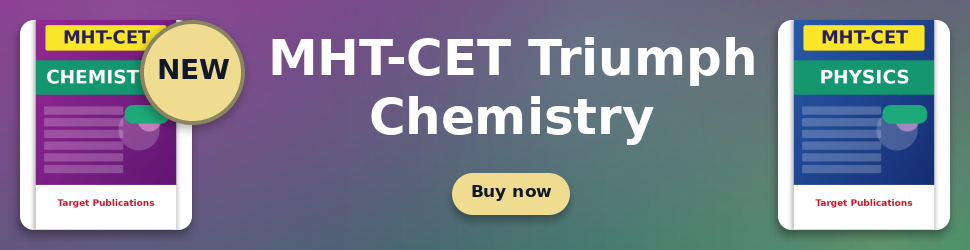
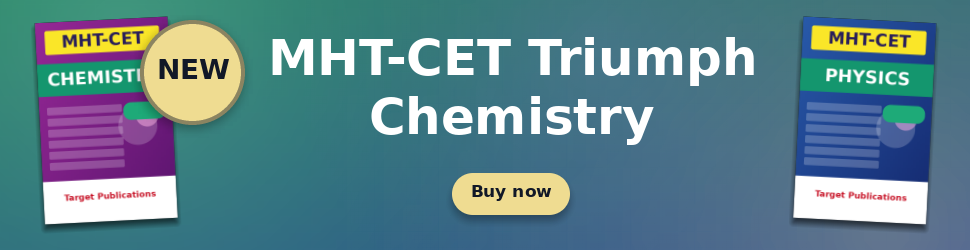
feat: cover-derived backgrounds and free-standing books in strips
- Theme::fromImages(): colours from front + back cover, front decides the brand hue;
  secondary colour only from a neighbouring hue (no purple->green gradients)
- New backgrounds: lines, bokeh, hex (deterministic, drawn from the theme)
- Showcase layout: packshots are cut out and stand on the background instead of white cards
- "Title | tagline" headlines split into headline + subheadline
- Tests, README and sample renders updated

diff --git a/src/Ads/Backgrounds.php b/src/Ads/Backgrounds.php
@@ -11,7 +11,8 @@ use Packitifotech\Laragdads\Services\Image\ImageService;
 /**
  * Background painters. A painter is `fn (Canvas $canvas, AdSpec $spec, Theme $theme): void`.
  *
- * Built-in modern styles: auto, mesh, gradient, solid, blur.
+ * Built-in modern styles, all coloured from the cover/brand: auto (mesh), mesh, lines, bokeh, hex, gradient,
+ * solid, blur.
  * Legacy styles (wave1, wave, abstract, stripes, radial, spotlight, burst, marketing, medical,
  * mobile-dots, mobile-card, mobile-diagonal, mobile-flat) are the original ImageService painters.
  * Add your own with Backgrounds::register().
@@ -36,6 +37,9 @@ final class Backgrounds
 
         match ($style) {
             'auto', 'mesh' => self::mesh($canvas, $theme),
+            'lines' => self::lines($canvas, $theme),
+            'bokeh' => self::bokeh($canvas, $theme),
+            'hex' => self::hex($canvas, $theme),
             'gradient' => $canvas->gradient($theme->backgroundFrom, $theme->backgroundTo, 'diagonal'),
             'solid' => $canvas->rect(0, 0, $canvas->width(), $canvas->height(), $theme->backgroundFrom),
             'blur' => self::blur($canvas, $spec, $theme),
@@ -47,7 +51,7 @@ final class Backgrounds
     public static function names(): array
     {
         return array_values(array_unique(array_merge(
-            ['auto', 'mesh', 'gradient', 'solid', 'blur'],
+            ['auto', 'mesh', 'lines', 'bokeh', 'hex', 'gradient', 'solid', 'blur'],
             array_keys(self::legacyMap()),
             array_keys(self::$custom)
         )));
@@ -64,6 +68,88 @@ final class Backgrounds
         $canvas->glow((int) ($w * 0.12), (int) ($h * 0.1), (int) ($long * 0.55), Color::lighten($theme->primary, 0.25), 0.55);
         $canvas->glow((int) ($w * 0.92), (int) ($h * 0.95), (int) ($long * 0.6), $theme->accent, 0.28);
         $canvas->glow((int) ($w * 0.62), (int) ($h * 0.2), (int) ($long * 0.35), Color::lighten($theme->secondary, 0.3), 0.3);
+    }
+
+    /** Long, thin crossing lines in a lighter tone of the brand colour (the classic "ad strip" look). */
+    private static function lines(Canvas $canvas, Theme $theme): void
+    {
+        self::mesh($canvas, $theme);
+        $w = $canvas->width();
+        $h = $canvas->height();
+        $rand = self::rng($w * 31 + $h);
+        $tint = Color::lighten($theme->primary, 0.55);
+        $gold = Color::mix($theme->accent, $tint, 0.4);
+
+        $canvas->decor(function ($layer, int $k) use ($w, $h, $rand, $tint, $gold, $canvas) {
+            imagesetthickness($layer, max(1, $k));
+            $count = 9 + (int) round(max($w, $h) / 160);
+            for ($i = 0; $i < $count; $i++) {
+                $x1 = (int) (($rand() * 1.4 - 0.2) * $w * $k);
+                $y1 = (int) (($rand() * 1.4 - 0.2) * $h * $k);
+                $angle = ($rand() * 0.9 + 0.05) * M_PI * ($rand() > 0.5 ? 1 : -1);
+                $len = (0.35 + $rand() * 0.8) * max($w, $h) * $k;
+                $color = $canvas->colorOn($layer, $i % 3 === 0 ? $gold : $tint, 0.24 + $rand() * 0.22);
+                imageline($layer, $x1, $y1, (int) ($x1 + cos($angle) * $len), (int) ($y1 + sin($angle) * $len), $color);
+            }
+        });
+    }
+
+    /** Out-of-focus light discs. */
+    private static function bokeh(Canvas $canvas, Theme $theme): void
+    {
+        self::mesh($canvas, $theme);
+        $w = $canvas->width();
+        $h = $canvas->height();
+        $rand = self::rng($w * 17 + $h);
+        $palette = [Color::lighten($theme->primary, 0.5), $theme->accent, Color::lighten($theme->secondary, 0.45), [255, 255, 255]];
+
+        $count = 12 + (int) round(max($w, $h) / 120);
+        for ($i = 0; $i < $count; $i++) {
+            $d = (int) round((0.04 + $rand() * 0.16) * max($w, $h));
+            $canvas->circle((int) ($rand() * $w), (int) ($rand() * $h), max(8, $d), $palette[$i % 4], 0.07 + $rand() * 0.14);
+        }
+    }
+
+    /** Hexagon grid: a clean "science / tech" texture. */
+    private static function hex(Canvas $canvas, Theme $theme): void
+    {
+        self::mesh($canvas, $theme);
+        $w = $canvas->width();
+        $h = $canvas->height();
+        $tint = Color::lighten($theme->primary, 0.6);
+        $r = max(18, (int) round(max($w, $h) / 16));
+
+        $canvas->decor(function ($layer, int $k) use ($w, $h, $r, $tint, $canvas) {
+            imagesetthickness($layer, max(1, $k));
+            $color = $canvas->colorOn($layer, $tint, 0.14);
+            $dx = $r * sqrt(3);
+            $dy = $r * 1.5;
+            for ($row = -1; $row * $dy < $h + $r; $row++) {
+                for ($col = -1; $col * $dx < $w + $dx; $col++) {
+                    $cx = ($col + ($row % 2 ? 0.5 : 0)) * $dx;
+                    $cy = $row * $dy;
+                    $pts = [];
+                    for ($v = 0; $v < 6; $v++) {
+                        $a = M_PI / 6 + $v * M_PI / 3;
+                        $pts[] = (int) (($cx + $r * cos($a)) * $k);
+                        $pts[] = (int) (($cy + $r * sin($a)) * $k);
+                    }
+                    imagepolygon($layer, $pts, $color);
+                }
+            }
+        });
+    }
+
+    /** Deterministic 0..1 generator: the same size always gives the same pattern. */
+    private static function rng(int $seed): \Closure
+    {
+        $state = $seed % 2147483647 ?: 1;
+
+        return function () use (&$state): float {
+            $state = ($state * 48271) % 2147483647;
+
+            return $state / 2147483647;
+        };
     }
 
     /** The first image, blown up, blurred and dimmed. */

diff --git a/src/Ads/Theme.php b/src/Ads/Theme.php
@@ -35,10 +35,26 @@ final class Theme
     /** Pick colours from the dominant, most colourful tones of an image. */
     public static function fromImage(string|GdImage $image): self
     {
-        try {
-            $palette = ColorThief::getPalette($image, 6, 10) ?: [];
-        } catch (\Throwable) {
-            $palette = [];
+        return self::fromImages([$image]);
+    }
+
+    /**
+     * Pick colours from several images (e.g. front and back cover). Earlier images weigh more, so the
+     * front cover decides the brand colour and the back cover only fills in supporting tones.
+     *
+     * @param array<string|GdImage> $images
+     */
+    public static function fromImages(array $images): self
+    {
+        $palette = [];
+        foreach (array_values($images) as $n => $image) {
+            try {
+                $colors = ColorThief::getPalette($image, 6, 10) ?: [];
+            } catch (\Throwable) {
+                $colors = [];
+            }
+            // Later images contribute fewer colours, appended after the earlier (more important) ones.
+            array_push($palette, ...array_slice($colors, 0, max(2, 6 - 2 * $n)));
         }
 
         if ($palette === []) {
@@ -76,7 +92,8 @@ final class Theme
         $secondary = null;
         $accent = null;
         foreach (array_slice($palette, 1) as $c) {
-            if ($secondary === null && $score($c) > 0.12 && Color::hueDistance($primary, $c) >= 25) {
+            // A neighbouring hue gives a calm gradient; a far-away one (purple -> green) looks garish.
+            if ($secondary === null && $score($c) > 0.12 && Color::hueDistance($primary, $c) >= 20 && Color::hueDistance($primary, $c) <= 70) {
                 $secondary = $c;
             } elseif ($accent === null && Color::saturation($c) >= 0.5 && Color::hueDistance($primary, $c) >= 70) {
                 $accent = $c;

diff --git a/tests/AdBuilderTest.php b/tests/AdBuilderTest.php
@@ -241,4 +241,36 @@ final class AdBuilderTest extends TestCase
             $this->assertSame(400, imagesx($img), $style);
         }
     }
+
+    public function test_pattern_backgrounds_render_and_differ_from_plain_mesh(): void
+    {
+        $book = $this->packshot();
+        $render = fn (string $bg) => AdBuilder::make()->size(AdSize::STRIP)->images($book, $book)->background($bg)->headline('Hi')->toPng();
+
+        $mesh = $render('mesh');
+        foreach (['lines', 'bokeh', 'hex'] as $style) {
+            $this->assertSame(1200, imagesx($this->decode($render($style))), $style);
+            $this->assertNotSame($mesh, $render($style), $style);
+        }
+        $this->assertSame($render('lines'), $render('lines'), 'patterns are deterministic');
+    }
+
+    public function test_title_with_pipe_is_split_into_headline_and_subheadline(): void
+    {
+        $split = AdBuilder::make()->size(AdSize::STRIP)->headline('Maths Vol 2 | As per latest NTA syllabus')->toPng();
+        $explicit = AdBuilder::make()->size(AdSize::STRIP)->headline('Maths Vol 2')->subheadline('As per latest NTA syllabus')->toPng();
+
+        $this->assertSame($explicit, $split);
+    }
+
+    public function test_theme_from_front_and_back_cover_follows_the_front_cover(): void
+    {
+        $front = $this->packshot('front.png');
+        $c = Canvas::create(200, 280, [255, 255, 255]);
+        $c->rect(20, 16, 160, 240, [20, 150, 110]);
+        imagepng($c->image(), $this->dir . '/back.png');
+
+        $theme = Theme::fromImages([$front, $this->dir . '/back.png']);
+        $this->assertLessThan(40, Color::hueDistance($theme->primary, [140, 30, 150]));
+    }
 }

diff --git a/src/Ads/AdBuilder.php b/src/Ads/AdBuilder.php
@@ -219,6 +219,7 @@ final class AdBuilder
             throw new InvalidArgumentException('An ad needs at least a headline or an image.');
         }
 
+        $spec = $this->splitTitle(clone $spec);
         $theme = $spec->theme ?? $this->resolveTheme();
         $heading = new Typography($spec->fontPath);
         $body = $spec->bodyFontPath ? new Typography($spec->bodyFontPath) : $heading;
@@ -320,9 +321,25 @@ final class AdBuilder
 
     private function resolveTheme(): Theme
     {
-        $source = $this->spec->themeSource ?? ($this->spec->images[0] ?? ($this->spec->logo ?? null));
+        if ($this->spec->themeSource !== null) {
+            return Theme::fromImage($this->spec->themeSource);
+        }
+        $sources = array_slice($this->spec->images, 0, 2) ?: array_filter([$this->spec->logo]);
 
-        return $source !== null ? Theme::fromImage($source) : Theme::fromColors(Theme::FALLBACK);
+        return $sources !== [] ? Theme::fromImages($sources) : Theme::fromColors(Theme::FALLBACK);
+    }
+
+    /** "Book title | tagline" in one string becomes headline + subheadline when no subheadline is set. */
+    private function splitTitle(AdSpec $spec): AdSpec
+    {
+        if ($spec->subheadline === null && $spec->headline !== null && str_contains($spec->headline, '|')) {
+            [$head, $sub] = array_map('trim', explode('|', $spec->headline, 2));
+            if ($head !== '' && $sub !== '') {
+                [$spec->headline, $spec->subheadline] = [$head, $sub];
+            }
+        }
+
+        return $spec;
     }
 
     private function specWithTheme(Theme $theme): AdSpec

diff --git a/src/Ads/Layouts/ShowcaseLayout.php b/src/Ads/Layouts/ShowcaseLayout.php
@@ -26,10 +26,10 @@ final class ShowcaseLayout extends AbstractLayout
         $right = $spec->images[1] ?? null;
 
         if ($left !== null) {
-            $this->card($canvas, $spec, $left, $m, $m, $cardW, $cardH, $radius);
+            $this->flank($canvas, $spec, $left, $m, $m, $cardW, $cardH, $radius, 3.0);
         }
         if ($right !== null) {
-            $this->card($canvas, $spec, $right, $w - $m - $cardW, $m, $cardW, $cardH, $radius);
+            $this->flank($canvas, $spec, $right, $w - $m - $cardW, $m, $cardW, $cardH, $radius, -3.0);
         }
 
         $x0 = $left !== null ? $m * 2 + $cardW : $m * 2;
@@ -72,5 +72,19 @@ final class ShowcaseLayout extends AbstractLayout
         if ($badgeD && $left !== null) {
             $this->badge($canvas, $spec, $theme, $headingFont, $m + $cardW, $m + intdiv($badgeD, 2), $badgeD);
         }
+    }
+
+    /** Packshots (books, boxes) stand on the background with their white backdrop removed; photos get a card. */
+    private function flank(Canvas $canvas, AdSpec $spec, mixed $image, int $x, int $y, int $w, int $h, int $radius, float $tilt): void
+    {
+        $wantsCutout = $spec->cutout ?? $this->isPackshot($image);
+        if (!$wantsCutout) {
+            $this->card($canvas, $spec, $image, $x, $y, $w, $h, $radius);
+
+            return;
+        }
+
+        $angle = $h >= 110 ? $tilt : 0.0;
+        $canvas->sprite($this->prepare($image, $spec), $x + intdiv($w, 2), $y + intdiv($h, 2), $w, $h, $angle);
     }
 }

diff --git a/src/Ads/Layouts/BooksLayout.php b/src/Ads/Layouts/BooksLayout.php
@@ -2,11 +2,8 @@
 
 namespace Packitifotech\Laragdads\Ads\Layouts;
 
-use GdImage;
 use Packitifotech\Laragdads\Ads\AdSpec;
 use Packitifotech\Laragdads\Ads\Support\Canvas;
-use Packitifotech\Laragdads\Ads\Support\Cutout;
-use Packitifotech\Laragdads\Ads\Support\ImageLoader;
 use Packitifotech\Laragdads\Ads\Support\Typography;
 use Packitifotech\Laragdads\Ads\Theme;
 
@@ -86,14 +83,5 @@ final class BooksLayout extends AbstractLayout
         $boxH = (int) round($h * 0.88);
         $canvas->sprite($back, $x + (int) round($w * 0.34), $cy - (int) round($h * 0.03), $boxW, $boxH, 5);
         $canvas->sprite($front, $x + (int) round($w * 0.64), $cy + (int) round($h * 0.03), $boxW, (int) round($h * 0.94), -3);
-    }
-
-    /** Strip the white packshot background (unless disabled or the image already has transparency). */
-    private function prepare(GdImage|string $image, AdSpec $spec): GdImage
-    {
-        $img = ImageLoader::load($image);
-        $wanted = $spec->cutout ?? Cutout::hasLightBackground($img);
-
-        return $wanted ? Cutout::apply($img) : $img;
     }
 }

diff --git a/src/Ads/Support/Canvas.php b/src/Ads/Support/Canvas.php
@@ -191,6 +191,32 @@ final class Canvas
         return $this;
     }
 
+    /**
+     * Draw anti-aliased decoration: $draw receives a transparent layer at $scale times the canvas size
+     * (so 1px strokes stay smooth after downsampling) and the scale factor.
+     *
+     * @param callable(GdImage, int): void $draw
+     */
+    public function decor(callable $draw, int $scale = 2): self
+    {
+        $w = $this->width();
+        $h = $this->height();
+        $big = $this->layer($w * $scale, $h * $scale);
+        $draw($big, $scale);
+
+        $small = $this->layer($w, $h);
+        imagealphablending($small, false);
+        imagecopyresampled($small, $big, 0, 0, 0, 0, $w, $h, $w * $scale, $h * $scale);
+        $this->compose($small, 0, 0);
+
+        return $this;
+    }
+
+    public function colorOn(GdImage $layer, array $color, float $opacity): int
+    {
+        return $this->alloc($layer, $color, $opacity);
+    }
+
     // ---------------------------------------------------------------- images
 
     /**

diff --git a/src/Ads/Layouts/AbstractLayout.php b/src/Ads/Layouts/AbstractLayout.php
@@ -2,6 +2,7 @@
 
 namespace Packitifotech\Laragdads\Ads\Layouts;
 
+use GdImage;
 use Packitifotech\Laragdads\Ads\AdSpec;
 use Packitifotech\Laragdads\Ads\Support\Canvas;
 use Packitifotech\Laragdads\Ads\Support\Color;
@@ -217,6 +218,15 @@ abstract class AbstractLayout implements Layout
             $canvas->rect($x - $pad, $y - $pad, $w + 2 * $pad, $h + 2 * $pad, [255, 255, 255], 0.92, (int) round(($h + 2 * $pad) * 0.3));
         }
         $canvas->picture($spec->logo, $x, $y, $w, $h, 'contain');
+    }
+
+    /** Strip the white packshot background (unless disabled or the image already has transparency). */
+    protected function prepare(GdImage|string $image, AdSpec $spec): GdImage
+    {
+        $img = ImageLoader::load($image);
+        $wanted = $spec->cutout ?? Cutout::hasLightBackground($img);
+
+        return $wanted ? Cutout::apply($img) : $img;
     }
 
     /** A studio shot on a flat white background reads best on a white card. */

diff --git a/examples/generate.php b/examples/generate.php
@@ -73,6 +73,8 @@ $ad = fn () => AdBuilder::make()
 $jobs = [
     'landscape-front' => $ad()->size(AdSize::LANDSCAPE),
     'landscape-front-back' => $ad()->size(AdSize::LANDSCAPE)->images("$out/assets/chemistry.png", "$out/assets/back.png"),
+    'strip-lines' => AdBuilder::make()->font($font)->size(AdSize::STRIP)->images("$out/assets/chemistry.png", "$out/assets/back.png")->background('lines')
+        ->headline('JEE Main Mathematics Absolute Vol 2 Notes with MCQs | As per latest syllabus issued by NTA'),
     'landscape-right' => $ad()->size(AdSize::LANDSCAPE)->imageSide('right')->images("$out/assets/physics.png", "$out/assets/chemistry.png"),
     'square' => $ad()->size(AdSize::SQUARE)->images("$out/assets/chemistry.png", "$out/assets/back.png"),
     'story' => $ad()->size(AdSize::STORY)->images("$out/assets/chemistry.png", "$out/assets/back.png"),

diff --git a/README.md b/README.md
@@ -10,6 +10,7 @@ with a packshot. Pick a size, give it images and copy, get a ready-to-publish PN
 
 ![billboard](docs/examples/billboard.png)
 ![leaderboard](docs/examples/leaderboard.png)
+![strip](docs/examples/strip-lines.png)
 
 The images above come from `php examples/generate.php`.
 
@@ -22,7 +23,7 @@ The images above come from `php examples/generate.php`.
 - **Packshot cut-out**: a flat white studio background is removed, white areas inside the product are kept, and the baked-in drop shadow turns into a real soft shadow.
 - **Auto-fitting text**: headline, sub-headline and tick-list shrink and wrap to fit any size; text that cannot fit is ellipsised.
 - **Elements**: CTA button, round badge (`-30%`, `NEW`), logo, tick-list of selling points.
-- **Backgrounds**: `auto`/`mesh`, `gradient`, `solid`, `blur`, plus the original `wave1`, `stripes`, `radial`, `spotlight`, `burst`, `medical`, ... and your own via `Backgrounds::register()`.
+- **Backgrounds drawn from the covers**: `auto`/`mesh`, `lines`, `bokeh`, `hex`, `gradient`, `solid`, `blur`. The colours come from the front cover (the back cover only adds supporting tones). Plus the original `wave1`, `stripes`, `radial`, `spotlight`, `burst`, `medical`, ... and your own via `Backgrounds::register()`.
 - **Output**: `toPng()`, `toJpg()`, `toWebp()`, `toDataUri()`, `save($path)`, `saveTo($storagePath, $disk)`.
 
 ## Requirements
@@ -64,6 +65,16 @@ $files = Laragdads::ad()
 foreach ($files as $label => $binary) {                    // "1080x1080" => PNG bytes
     Storage::put("ads/{$label}.png", $binary);
 }
+```
+
+A long `"Title | tagline"` headline is split automatically into a headline and a subheadline.
+
+Front cover left, back cover right on a background built from the covers (the classic wide strip):
+
+```php
+Laragdads::ad()->size(AdSize::STRIP)->images($front, $back)->background('lines')
+    ->headline('JEE Main Mathematics Absolute Vol 2 Notes with MCQs | As per latest syllabus issued by NTA')
+    ->save(storage_path('app/ads/strip.png'));
 ```
 
 ### Builder reference
